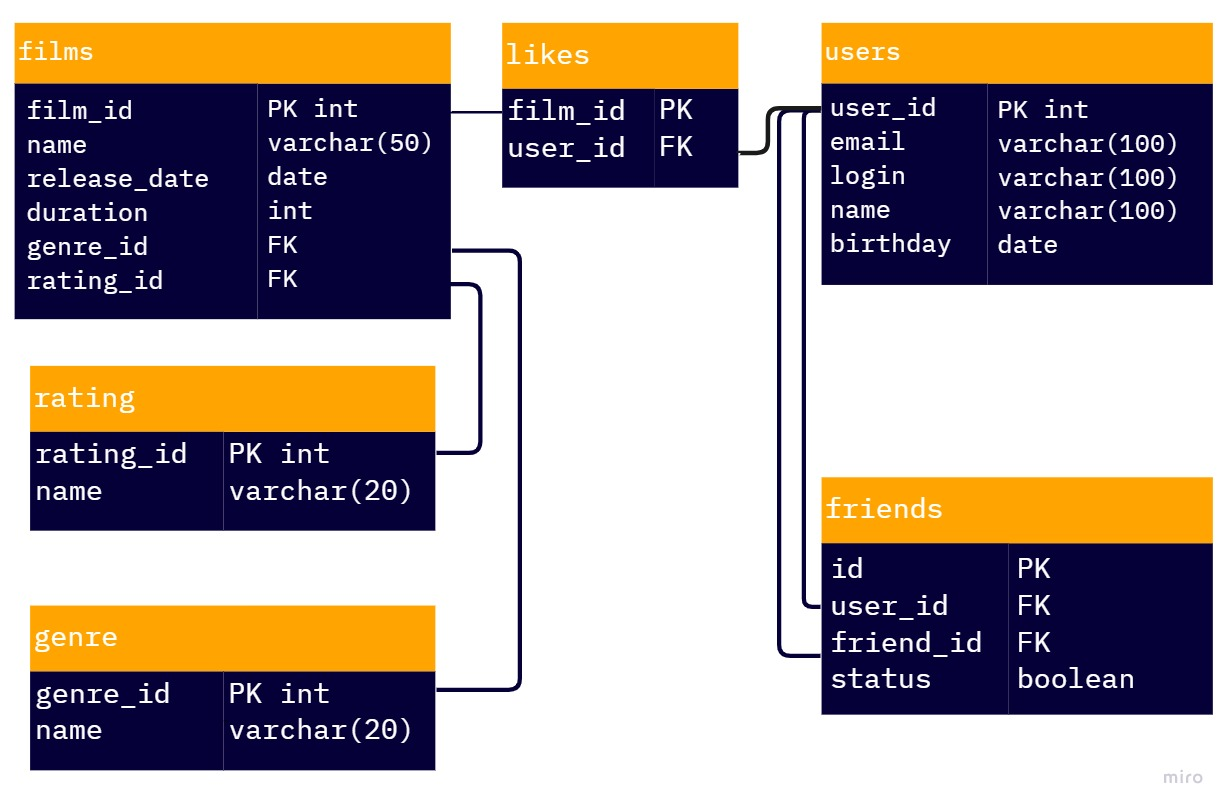
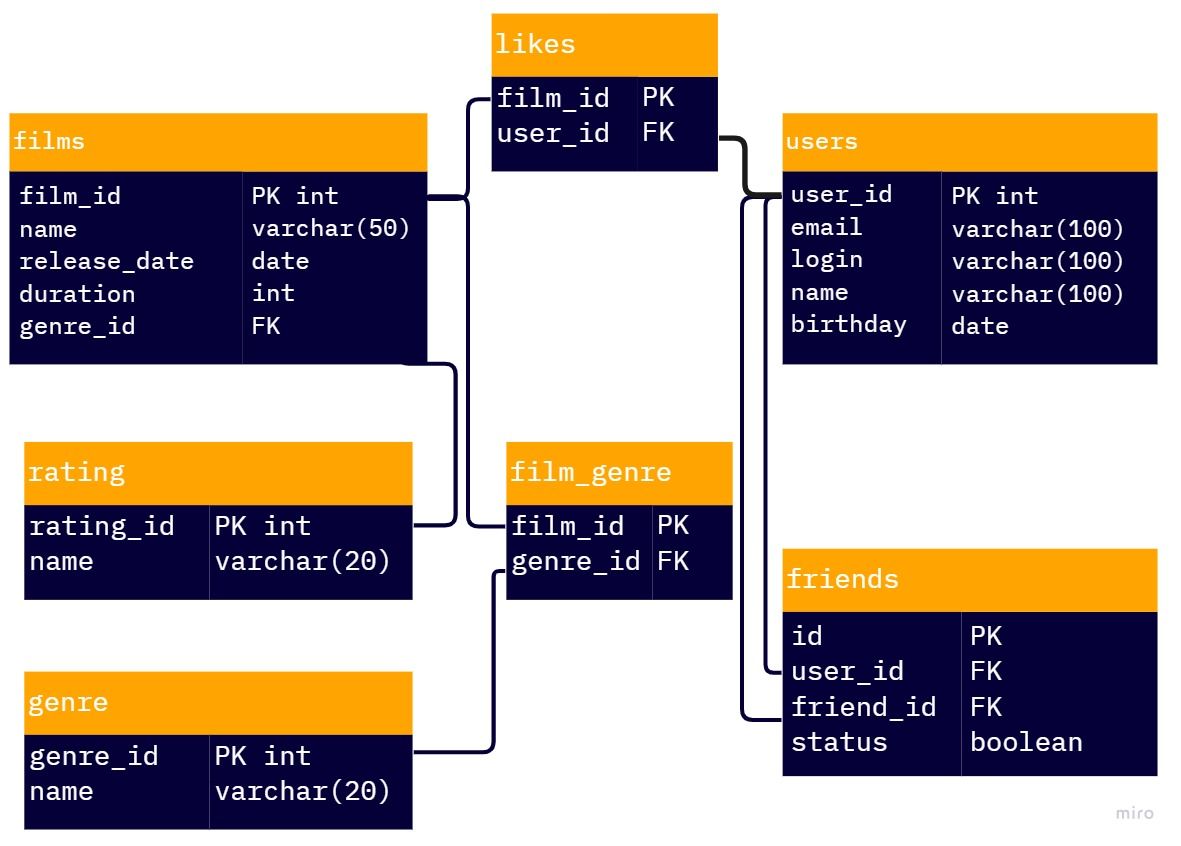
Обновлена диаграмма, добавлена таблица с жанрами

diff --git a/README.md b/README.md
@@ -45,10 +45,8 @@ SELECT f.name,
        f.decription,
        f.release_date,
        f.duration,
-       g.name,
        r.name
 FROM film AS f
-LEFT JOIN genre AS g ON f.genre_id=g.genre_id
 LEFT JOIN rating AS r ON f.rating_id=r.rating_id
 ```
 
@@ -58,10 +56,8 @@ SELECT f.name,
        f.decription,
        f.release_date,
        f.duration,
-       g.name,
        r.name
 FROM film AS f
-LEFT JOIN genre AS g ON f.genre_id=g.genre_id
 LEFT JOIN rating AS r ON f.rating_id=r.rating_id
 WHERE film_id='$id'
 ```
@@ -72,14 +68,12 @@ SELECT f.name,
        f.decription,
        f.release_date,
        f.duration,
-       g.name,
        r.name
 FROM film AS f
-LEFT JOIN genre AS g ON f.genre_id=g.genre_id
 LEFT JOIN rating AS r ON f.rating_id=r.rating_id
-WHERE film_id IN (SELECT film_id
+WHERE film_id IN (SELECT film_id,
+                        COUNT(user_id)
                    FROM like
-                   WHERE COUNT(user_id)
                    GROUP BY film_id
                    ORDER BY COUNT(user_id) DESC)
 ```
